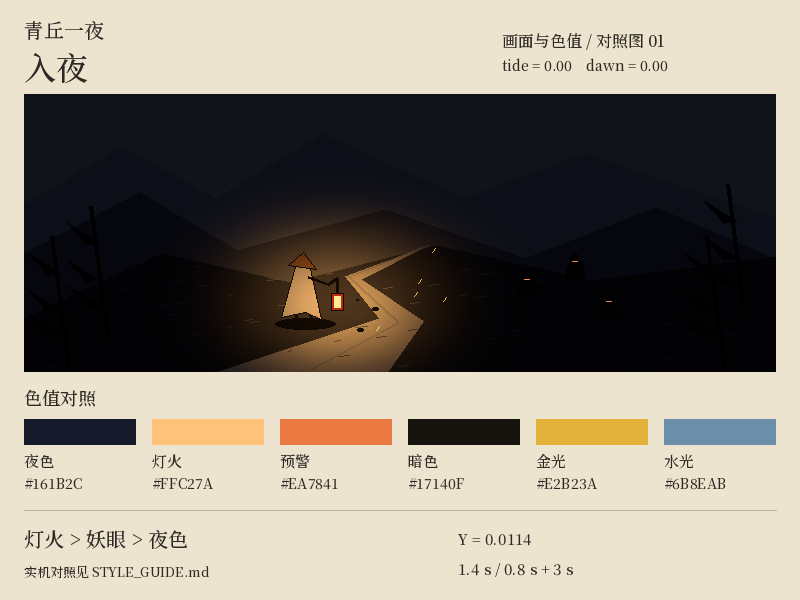
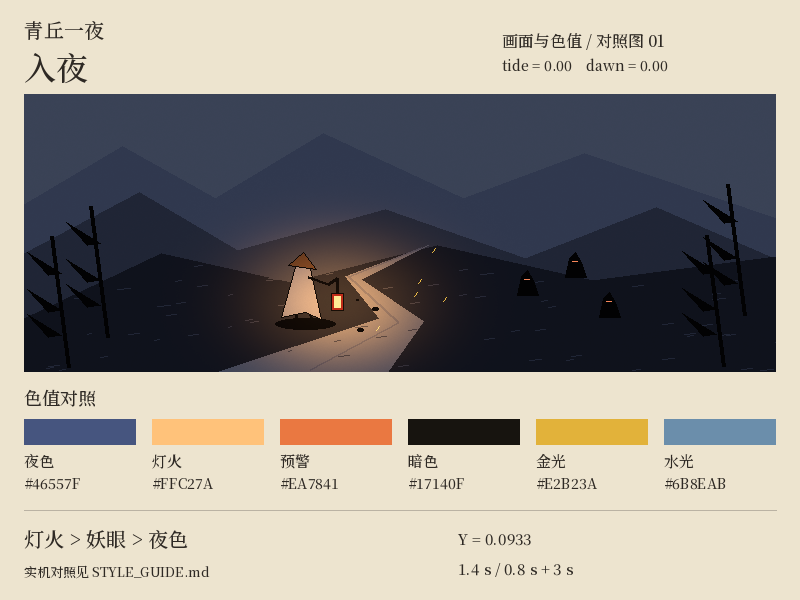
质感：月夜——夜色提到月光蓝，平时不铺全屏薄雾和冷蓝夜雾（试玩第 1 轮第 2 项）
玩家说“地图感觉有一层雾一样看不清”。原因：光照图底色 #161B2C 在线性空间里只剩 1–2.5%，
暗处几乎全黑，再盖一层亮雾（mist.rs，在暗层和角色之上）就成了一片平灰，墨线也被抬灰。
- 夜色（palette::NIGHT_AMBIENT，lighting.rs、lib.rs 跟着它）改成月光蓝 #46557F：暗处看得清地面、
  竹丛和妖物，灯下仍是暖光。试过 #7A8AB8 / #56648F / #3A4670，见 FEEL 第 4 节。
- 夜签“无月”仍是原来的黑夜（NO_MOON_AMBIENT #161B2C）。
- 全屏薄雾、冷蓝夜雾只在夜签“浓雾”的夜里有。
- 美术 style.py 的 RUNTIME_COLORS 同步，重出三时刻样板（make_style_frames.py --check 通过）。
同一份回放同一秒的前后截图在这个分支的 docs/playtest/r1/。

Claude-Session: https://claude.ai/code/session_018gbDFZLLK4W5M5UJSTfuiZ

diff --git a/crates/view/src/atmos.rs b/crates/view/src/atmos.rs
@@ -20,7 +20,7 @@ use lantern_sim::{AppState, Director, Health, Player, Pos, RunState, SimEvent, S
 use crate::actors::{GlowRequests, Pools};
 use crate::fx::ult_flare;
 use crate::lighting::{LightCamera, NIGHT_AMBIENT};
-use crate::palette::{TIDE_AMBIENT_GAIN, TIDE_DECOR_GAIN, TIDE_PARTICLE_GAIN, dawn_ambient};
+use crate::palette::{NO_MOON_AMBIENT, TIDE_AMBIENT_GAIN, TIDE_DECOR_GAIN, TIDE_PARTICLE_GAIN, dawn_ambient};
 use crate::particles::{INK, Particles};
 use crate::{Feel, MainCamera, layer, to_screen};
 
@@ -252,7 +252,11 @@ pub(crate) fn update_atmos(
     mut light: Single<&mut Camera, With<LightCamera>>,
     feel: Res<Feel>,
     director: Option<Res<Director>>,
+    (stats, setup): (Option<Res<lantern_sim::Stats>>, Option<Res<lantern_sim::RunSetup>>),
 ) {
+    // 夜签：“无月”是原来的黑夜；“浓雾”才有冷蓝的夜雾（平时是月夜，没有雾）
+    let no_moon = stats.as_ref().is_some_and(|s| s.rule(lantern_content::Rule::NoMoon));
+    let fog = setup.as_ref().is_some_and(|s| s.omen.as_ref().is_some_and(|o| o.id == "fog"));
     let rdt = real.delta_secs().min(0.1);
     // 妖潮、合围：约 1.5 秒压下去，结束后约 3 秒回来
     let tide = director.is_some_and(|d| d.surge_t > 0.0 || !d.encircle.is_empty());
@@ -303,7 +307,7 @@ pub(crate) fn update_atmos(
     }
 
     // ---- 光照图底色：夜色 → 夜主登场时更暗 → 天明时变成晨光
-    let night = NIGHT_AMBIENT.to_linear();
+    let night = if no_moon { NO_MOON_AMBIENT } else { NIGHT_AMBIENT }.to_linear();
     // 夜主登场：0.4 秒压暗，停一会儿，最后 1.5 秒慢慢回来（短的按比例缩）
     let gloom = if atmos.gloom > 0.0 {
         let len = atmos.gloom_len;
@@ -365,7 +369,10 @@ pub(crate) fn update_atmos(
         }
     }
 
-    // ---- 夜雾：大片冷蓝的薄雾慢慢横移，叠加在暗层之上，暗处泛起一层月色，亮处几乎看不出
+    // ---- 夜雾：大片冷蓝的薄雾慢慢横移，叠加在暗层之上；只在“浓雾”的夜里有
+    if !fog {
+        return;
+    }
     for w in &mut atmos.wisps {
         w.off.x += w.vel * dt;
         if w.off.x > 560.0 {

diff --git a/crates/view/src/palette.rs b/crates/view/src/palette.rs
@@ -8,7 +8,10 @@ use bevy::prelude::*;
 pub(crate) const INK: Color = Color::srgb_u8(23, 20, 15);
 pub(crate) const GOLD: Color = Color::srgb_u8(226, 178, 58);
 pub(crate) const DUST: Color = Color::srgb_u8(106, 100, 90);
-pub const NIGHT_AMBIENT: Color = Color::srgb_u8(22, 27, 44);
+/// 月夜（试玩第 1 轮：暗处也看得清地面和妖物）：光照图的底色，没被灯照到的地方乘它。
+pub const NIGHT_AMBIENT: Color = Color::srgb_u8(70, 85, 127);
+/// 夜签“无月”：原来的黑夜。
+pub const NO_MOON_AMBIENT: Color = Color::srgb_u8(22, 27, 44);
 pub(crate) const LANTERN_LIGHT: Color = Color::srgb_u8(255, 194, 122);
 pub(crate) const FLAME_LIGHT: Color = Color::srgb_u8(255, 154, 77);
 pub(crate) const SOUL_LIGHT: Color = Color::srgb_u8(191, 239, 255);
@@ -52,7 +55,8 @@ mod tests {
     #[test]
     fn ink_and_night_match_art_srgb() {
         assert_eq!(INK.to_srgba().to_u8_array(), [0x17, 0x14, 0x0f, 255]);
-        assert_eq!(NIGHT_AMBIENT.to_srgba().to_u8_array(), [0x16, 0x1b, 0x2c, 255]);
+        assert_eq!(NIGHT_AMBIENT.to_srgba().to_u8_array(), [0x46, 0x55, 0x7f, 255]);
+        assert_eq!(NO_MOON_AMBIENT.to_srgba().to_u8_array(), [0x16, 0x1b, 0x2c, 255]);
     }
 
     #[test]

diff --git a/art/style/style.py b/art/style/style.py
@@ -38,7 +38,8 @@ ACCENT = {
 SKIN = "#E9D0AB"  # 皮肤：淡赭
 
 # 夜色与光
-NIGHT_AMBIENT = "#161B2C"  # 光照图的底色（游戏里同值）
+NIGHT_AMBIENT = "#46557F"  # 光照图的底色：月夜（游戏里同值；试玩第 1 轮从 #161B2C 提亮）
+NO_MOON_AMBIENT = "#161B2C"  # 夜签“无月”：原来的黑夜
 LANTERN_LIGHT = "#FFC27A"  # 灯笼暖光
 FLAME_LIGHT = "#FF9A4D"  # 火焰
 SOUL_LIGHT = "#BFEFFF"  # 魂火冷光
@@ -86,7 +87,8 @@ RUNTIME_COLORS = {
     "INK": INK["jiao"],                         # #17140F，墨滴、灰、化墨与轮廓同色
     "GOLD": ACCENT["tenghuang"],               # #E2B23A，金火星
     "DUST": mix(INK["zhong"], INK["dan"], 0.5), # #6A645A，受光尘土；运行时 alpha=0.4
-    "NIGHT_AMBIENT": NIGHT_AMBIENT,             # #161B2C，保持夜色
+    "NIGHT_AMBIENT": NIGHT_AMBIENT,             # #46557F，月夜
+    "NO_MOON_AMBIENT": NO_MOON_AMBIENT,         # #161B2C，无月
     "LANTERN_LIGHT": LANTERN_LIGHT,             # #FFC27A
     "FLAME_LIGHT": FLAME_LIGHT,                 # #FF9A4D，FIRE 同值
     "SOUL_LIGHT": SOUL_LIGHT,                   # #BFEFFF

diff --git a/crates/view/src/mist.rs b/crates/view/src/mist.rs
@@ -130,7 +130,12 @@ pub(crate) fn update_mist(
     let (thick, slow) = if fog { (FOG_THICK, FOG_DRIFT) } else { (1.0, 1.0) };
     for (m, mut tf, mat, mut vis) in &mut q {
         let (_, alpha, drift) = LAYERS[m.0];
-        vis.set_if_neq(if feel.lite && m.0 > 0 { Visibility::Hidden } else { Visibility::Inherited });
+        // 平时是月夜，不铺雾（试玩第 1 轮：全屏薄雾把暗处抬成一片灰）；只有“浓雾”的夜里铺
+        let shown = fog && !(feel.lite && m.0 > 0);
+        vis.set_if_neq(if shown { Visibility::Inherited } else { Visibility::Hidden });
+        if !shown {
+            continue;
+        }
         tf.translation = center.extend(tf.translation.z);
         tf.scale = (half * 2.0).extend(1.0);
         let Some(mut material) = materials.get_mut(&mat.0) else { continue };

diff --git a/crates/view/src/lighting.rs b/crates/view/src/lighting.rs
@@ -39,8 +39,8 @@ const LIGHTMAP_SCALE: f32 = 0.5;
 /// 自发光的亮度倍数（主画面是 HDR）。超过 1 的部分由辉光晕开。
 pub const EMIT_HDR: f32 = 1.5;
 
-/// 夜色：没有光照到的地方乘以它
-pub const NIGHT_AMBIENT: Color = Color::srgb(0.086, 0.106, 0.173);
+/// 夜色：没有光照到的地方乘以它（月夜；色板 palette.rs，和美术 style.py 同值）
+pub const NIGHT_AMBIENT: Color = crate::palette::NIGHT_AMBIENT;
 
 // ---------------------------------------------------------------------------
 // 混合方式扩展

diff --git a/crates/view/src/lib.rs b/crates/view/src/lib.rs
@@ -59,8 +59,8 @@ pub mod layer {
     pub const NUMBERS: f32 = 300.0;
 }
 
-/// 夜色，也是画面清屏色。
-pub const NIGHT: Color = Color::srgb(0.086, 0.106, 0.173);
+/// 夜色，也是画面清屏色（和光照图的底色同值）。
+pub const NIGHT: Color = palette::NIGHT_AMBIENT;
 
 pub struct ViewPlugin {
     /// 资源根目录（图集 JSON 在 `<asset_root>/atlas/`）

diff --git a/docs/FEEL.md b/docs/FEEL.md
@@ -107,9 +107,10 @@
   - 挨打的方向：`PlayerHurt.from`，伤害从哪儿来——碰撞、冲锋是妖物的位置，弹幕是弹的位置，九尾扫是扇形的顶点，狐火雨是落点。
   - 主角脚下朝来袭那一侧亮起一道 60° 的红色短弧，0.3 秒淡完；不占特效预算，精简特效也保留。
 - **主角受伤和无敌**（`hero_feedback.rs`）：挨打时描边闪白 60 ms、播受伤动作；挨打和救命（回光、九转金丹）给的无敌里，主角按剩余无敌时间每 0.1 秒一明一暗（不透明度 55%–100%），救命时外圈一道金边。闪避也给无敌，但不闪。
+- **月夜**（试玩第 1 轮）：光照图的底色——也就是没被灯照到的地方乘的颜色——是月光蓝 #46557F（`palette::NIGHT_AMBIENT`，和美术 `style.py` 同值），暗处看得清地面、竹丛和妖物，灯下仍是暖光。原来是 #161B2C，线性空间里只剩 1–2.5%，暗处几乎全黑，再盖一层亮雾就成了一片灰；试过 #7A8AB8（像阴天白天）、#56648F（偏亮偏平）、#3A4670（夜味足但暗），#46557F 在看得清和夜味之间。夜签“无月”仍是原来的黑夜（`NO_MOON_AMBIENT` #161B2C）。
 - **萤火**：40 点暖黄和淡绿的光绕着镜头飘，忽明忽暗，画在暗层之上。
-- **夜雾**：9 片冷蓝的薄雾慢慢横移，叠加在暗层之上，暗处泛起一层月色，亮处几乎看不出。
-- **青丘迷雾**（`mist.rs`）：美术的 `vfx/mist_0`（大团）、`mist_1`（碎团）是无缝平铺的贴图。图集里不能重复采样，一格格铺会露出接缝，所以图集加载好后把这两帧拷成单独的重复采样贴图，每层一个盖住镜头的大四边形，UV 跟世界坐标走、各自漂移（7、−2 和 −12、3.5 单位 / 秒），染 `#DDD9CF`，叠在暗层之上、普通混合。不透明度 0.05、0.035，比美术建议的 0.2、0.15 低很多：HDR 镜头在线性空间里混合，亮雾盖在暗处要亮得多。天明时淡一半，成了晨雾。夜签“浓雾”（灯光范围 −30%）的夜里不透明度 × 2.6、漂移 × 0.6，让减掉的灯光看得见。现在只有青丘一个地区，所以每局都有一层淡的；以后有别的地区时只在青丘画（美术原本是给 EA 险地狐冢的整夜迷雾准备的，到时候用浓雾那一档）。
+- **夜雾**：9 片冷蓝的薄雾慢慢横移，叠加在暗层之上。只在夜签“浓雾”的夜里有；平时是月夜，不画（试玩第 1 轮：它把暗处叠成蓝灰）。
+- **青丘迷雾**（`mist.rs`）：美术的 `vfx/mist_0`（大团）、`mist_1`（碎团）是无缝平铺的贴图。图集里不能重复采样，一格格铺会露出接缝，所以图集加载好后把这两帧拷成单独的重复采样贴图，每层一个盖住镜头的大四边形，UV 跟世界坐标走、各自漂移（7、−2 和 −12、3.5 单位 / 秒），染 `#DDD9CF`，叠在暗层之上、普通混合。不透明度 0.05、0.035，比美术建议的 0.2、0.15 低很多：HDR 镜头在线性空间里混合，亮雾盖在暗处要亮得多。天明时淡一半，成了晨雾。夜签“浓雾”（灯光范围 −30%）的夜里不透明度 × 2.6、漂移 × 0.6，让减掉的灯光看得见。平时不铺（试玩第 1 轮：玩家说“地图像有一层雾看不清”——它在暗层和所有角色之上，把暗处抬成一片平灰、把墨线也抬灰），只在夜签“浓雾”的夜里铺，以后险地狐冢的整夜迷雾也用浓雾那一档。
 - **妖潮、合围**：妖潮在涌（`Director::surge_t > 0`）或合围在合拢时，约 1.5 秒里压下去、结束后约 3 秒回来：环境底光 × 0.9，萤火压到 35%，夜雾和迷雾压到 45%（色板 `palette.rs` 的 `TIDE_*`）。玩家的法器、护盾、灯光、九尾扫都不压——危险色和自己的招式留在最前面。
 - **夜主登场**：光照图的底色 0.4 秒压暗 45%，停一会儿，最后 1.5 秒回来。换阶段时同样压一下，短一些、浅一些（1.8 秒，压暗 30%）。
 - **无尽夜**：夜主倒下也不天明（`BossDefeated { dawn: false }`），只有辉光一闪。夜深一层（`NightDeeper`，10 分钟以后每 5 分钟，和妖潮同时）时夜色先猛地压一下，再在 3 秒里停到更暗的一层（每层暗 6%，最多四层），晚半拍响一声低锣，一个音从 E4 沉到 E3（配乐的主音）——“梦太深，光透不上来……夜就一层层深下去”（`LORE.md` 第 8 节）。
